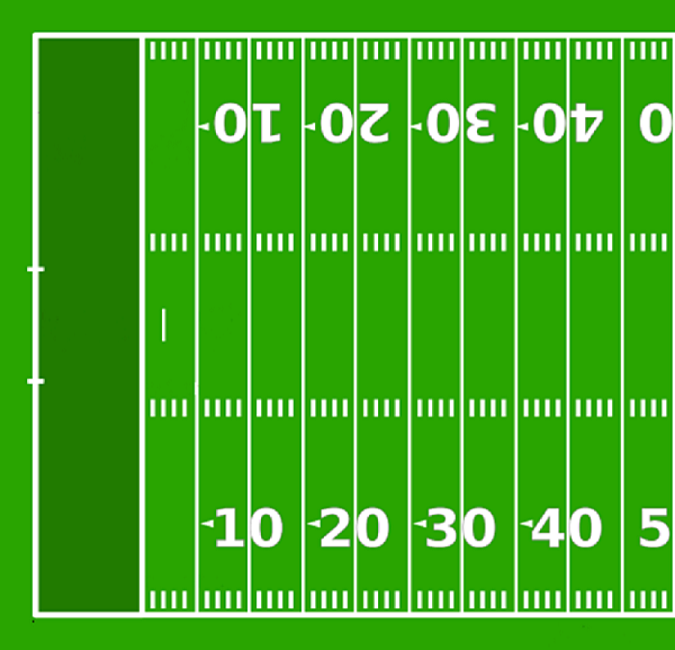
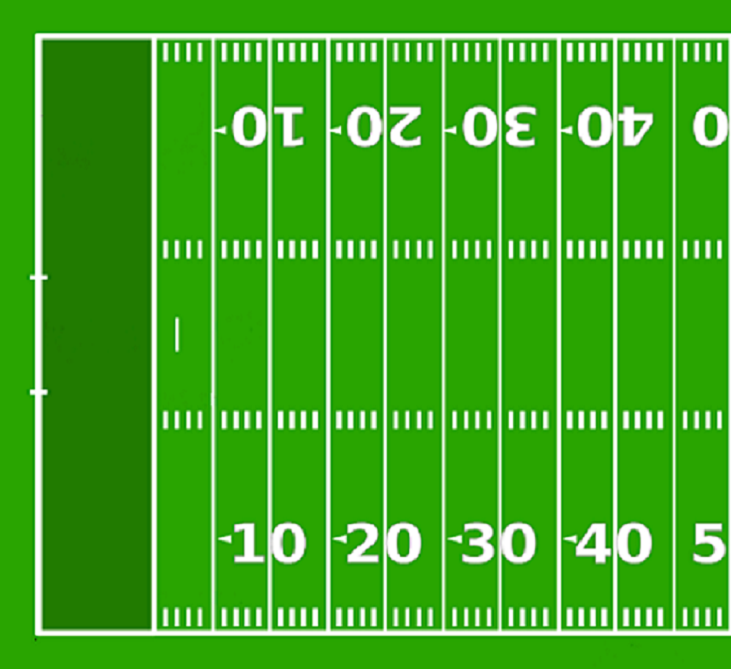
kool

diff --git a/Kickoff.py b/Kickoff.py
@@ -9,15 +9,15 @@ from BackGround import BackGround
 from Player import Player
 from HUD import Score
 from HUD import Text
-from Enemy import Enemy
+from enemy2 import Enemy
 pygame.init()
 
 #64.35.192.215
 
 clock = pygame.time.Clock()
 
-width = 1229
-height = 577
+width = 731
+height = 669
 size = width, height
 
 
@@ -25,7 +25,7 @@ bgColor = r,g,b = 0, 0, 10
 
 screen = pygame.display.set_mode(size)
 
-bgImage = pygame.image.load("field.png").convert()
+bgImage = pygame.image.load("field1.png").convert()
 bgRect = bgImage.get_rect()
 
 players = pygame.sprite.Group()
@@ -79,7 +79,7 @@ while True:
         pygame.display.flip()
         clock.tick(60)
         
-    BackGround("field.png")
+    BackGround("field1.png")
     
     level = Level(size, 30)
     lev = 1
@@ -152,6 +152,7 @@ while True:
                 for obj in all.sprites():
                     obj.kill()
                 all.update(width, height)
+                BackGround("field2.png")
                 lev += 1
                 level.loadLevel(lev)
                 for monsterPos in level.monsterList:
